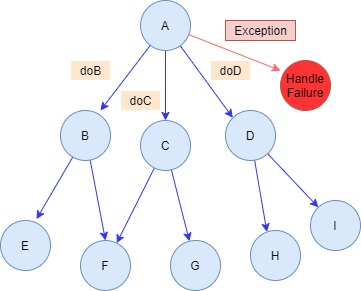
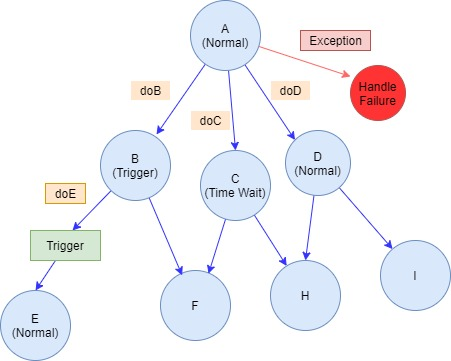
changed graph Image

diff --git a/README.md b/README.md
@@ -20,3 +20,14 @@ ASFT as an org has orchestrator systems which interacts with multiple other serv
 ```
 <img align="right" width="300" src="assets/graphImage.jpg" alt="graph Image" />
 
+### This represents a directed acyclic graph
+
+1. Dummy Task Implementations are used in the project as follows:
+    * printTask
+    * dataTask
+    * syncTask ...
+    
+2. It have three types of tasks :
+    1. Normal : After normal Execution generates an output
+    2. Trigger Wait : Halts Execution until a trigger is pressed
+    3. Time Wait : Sole purpose is to add delay between execution of two tasks 
